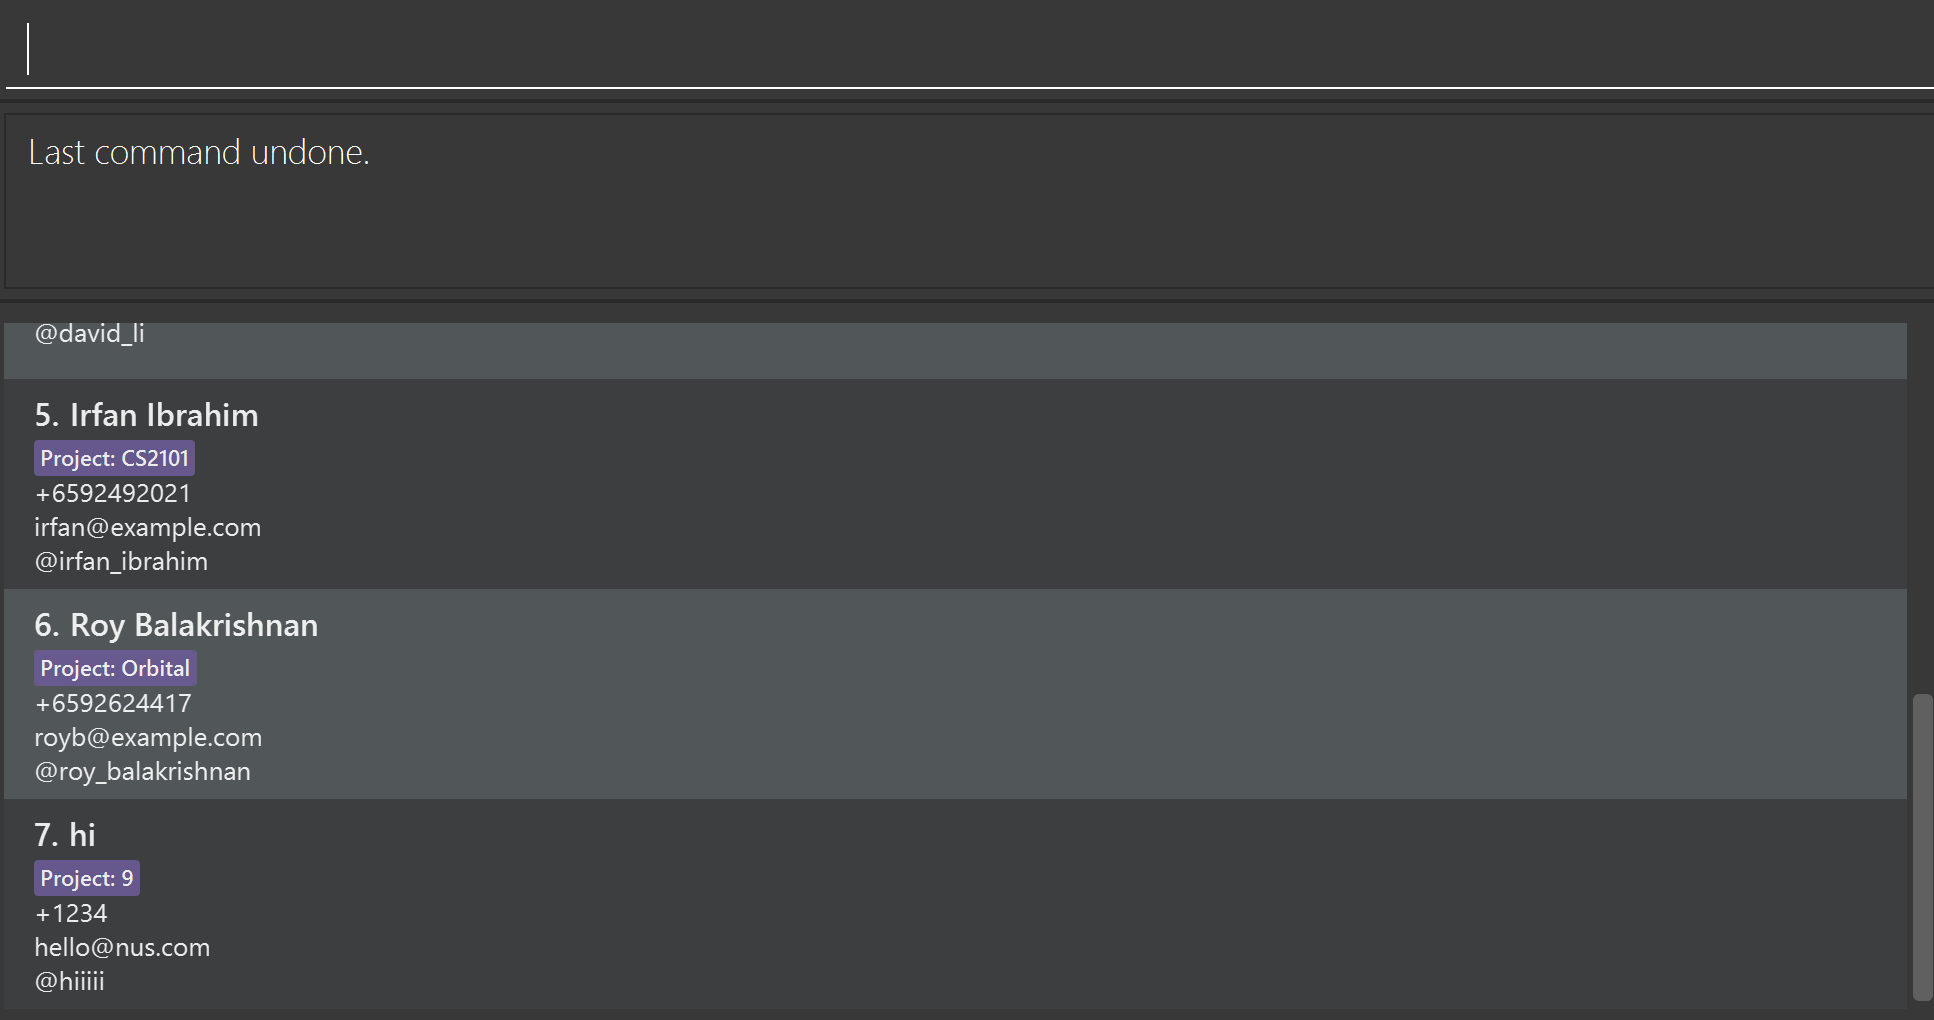
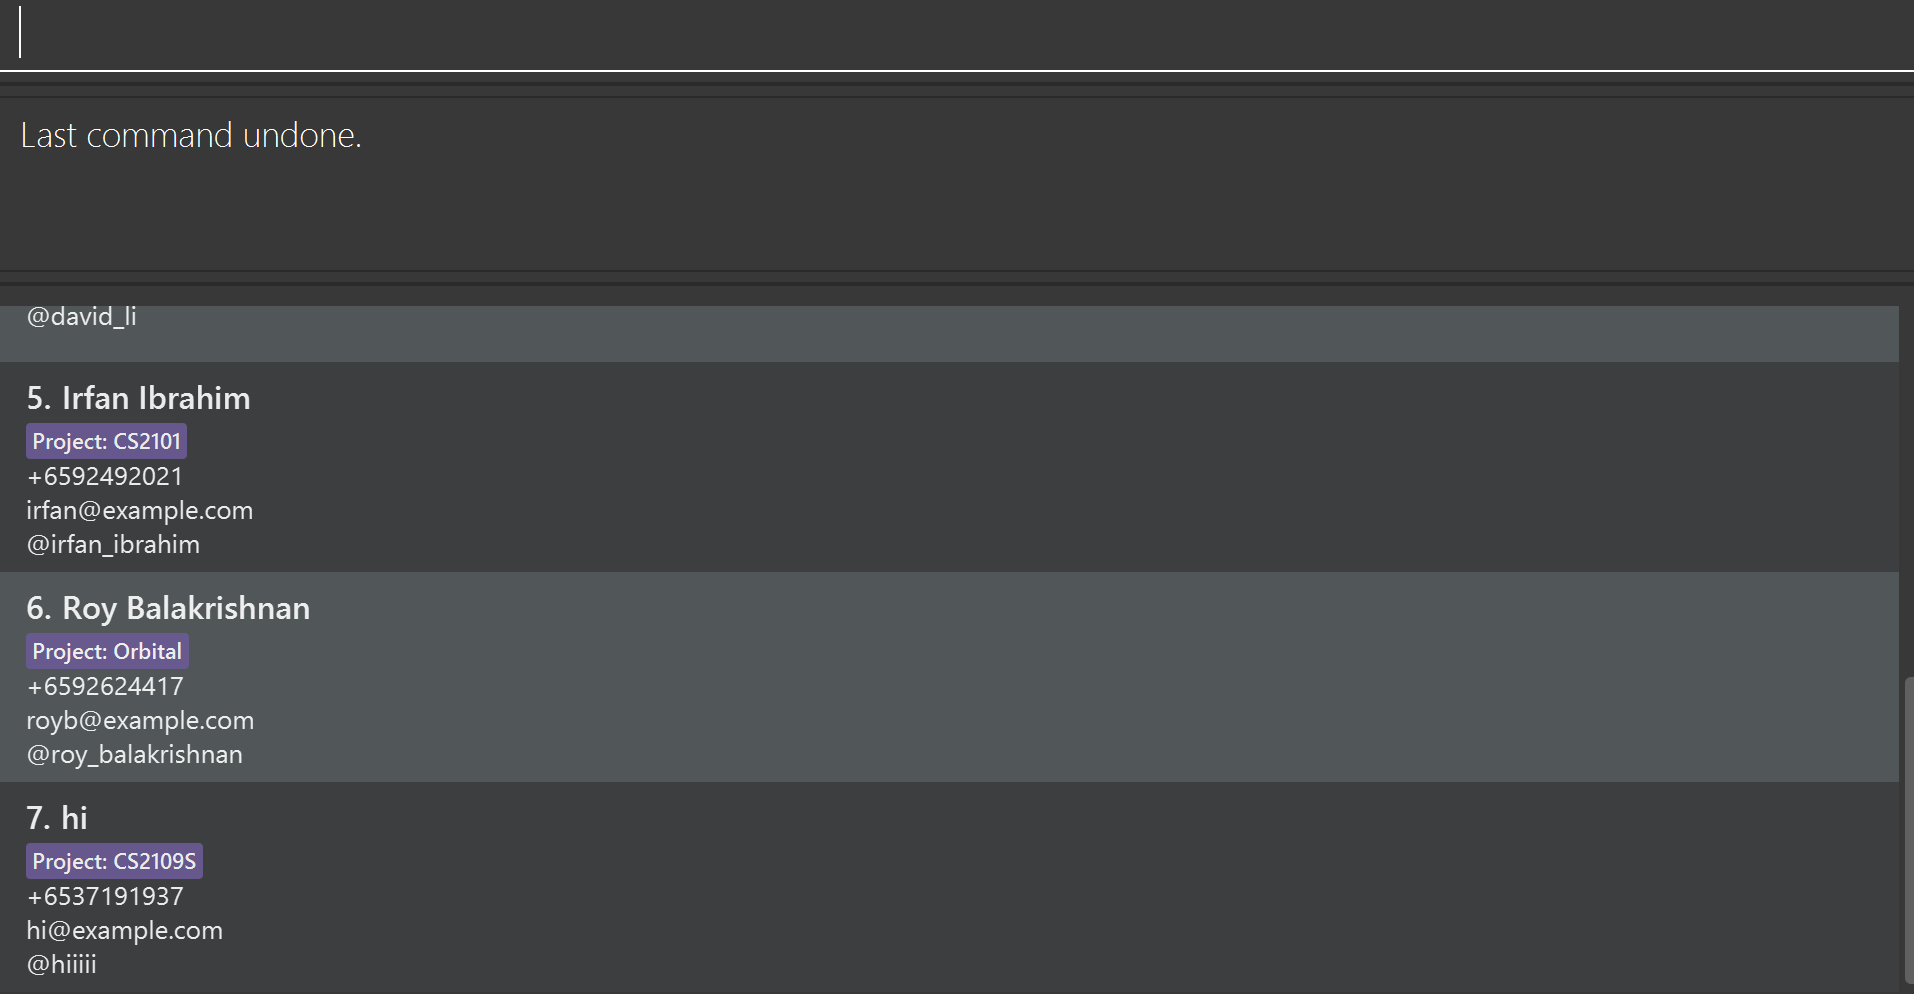
Apply revised release notes and undo screenshot

diff --git a/docs/ReleaseNotes.md b/docs/ReleaseNotes.md
@@ -27,9 +27,6 @@ associations, same-name support and more flexible search into a keyboard-driven 
   Duplicate associations are rejected.
 - **Session undo.** `undo` restores additions, deletions, clearing and project associations in reverse order.
   Existing partial edits can also be undone.
-- **Legacy-data recovery.** Older contact records can load without Telegram usernames or projects. LinkUp
-  preserves retired fields in a backup during migration and backs up unreadable contact data before starting
-  with an empty address book.
 - **Expanded command help.** The resizable help window provides a scrollable reference for all ten MVP
   commands and a copyable link to the User Guide.
 
